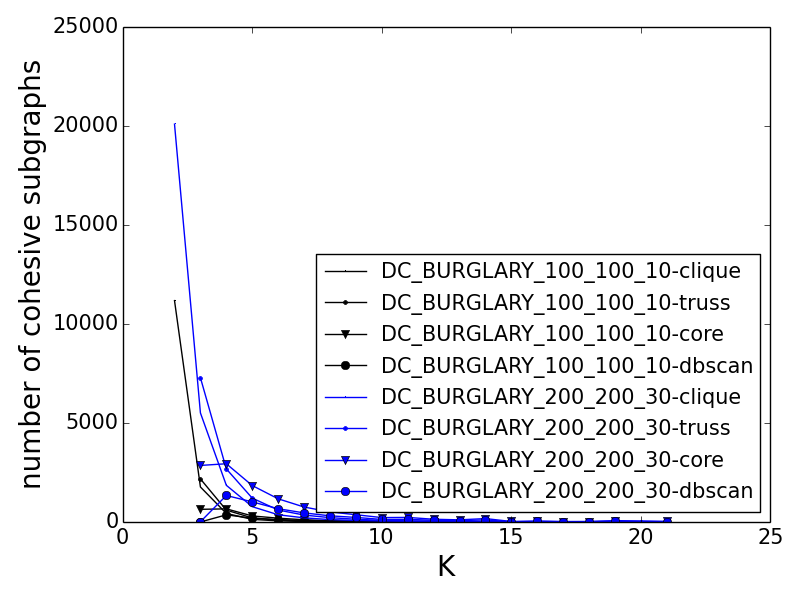
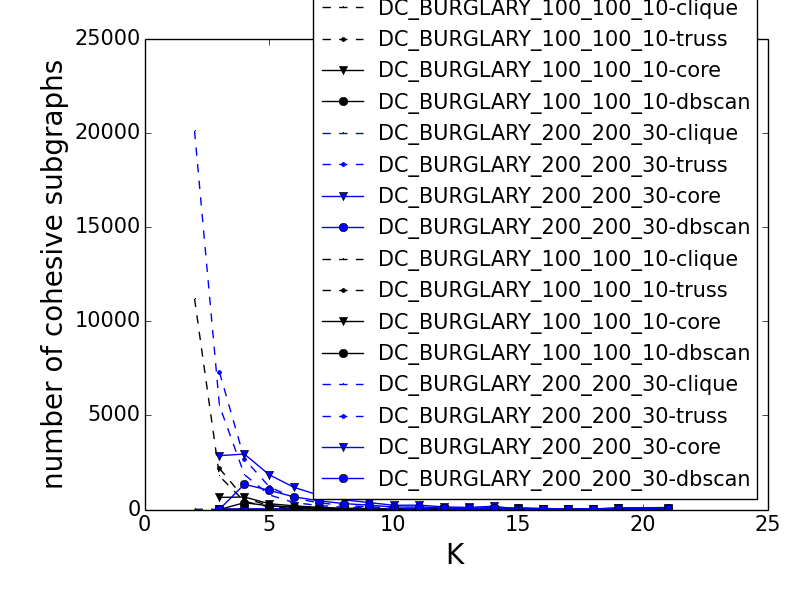
new figures

Changed region(s): [[0.0312, 0.0, 1.0, 0.96], [0.2188, 0.21, 0.25, 0.33]]

diff --git a/scripts/data_analysis.py b/scripts/data_analysis.py
@@ -62,6 +62,11 @@ class JsonStats:
         self.coreSize    = self.reduce(data["content"]["graph property"]["dbscan"], False)
         self.dbscanSize  = self.reduce(data["content"]["graph property"]["core"],   False)
 
+        self.cliqueSize  = self.getSizeMean(self.clique, self.cliqueSize)
+        self.trussSize   = self.getSizeMean(self.truss,  self.trussSize)
+        self.coreSize    = self.getSizeMean(self.core,   self.coreSize)
+        self.dbscanSize  = self.getSizeMean(self.dbscan, self.dbscanSize)
+
 
     def reduce(self, stats_str, if_freq):
         stats_item = {} 
@@ -90,8 +95,13 @@ class JsonStats:
 
         return {'x':X,'y':Y} 
 
+    def getSizeMean(self, freq, size):
+        for i in range(0, len(freq['y'])):
+            size['y'][i] = float(size['y'][i]) / float(freq['y'][i])
+        return size
+
+
     def plot(self, ofname):
-        print self.dbscan
         plt.plot(self.clique['x'], self.clique['y'], color='k', linestyle='-', marker=',', label = 'k-clique')
         plt.plot(self.truss['x'],  self.truss['y'],  color='k', linestyle='-', marker='.', label = 'k-truss')
         plt.plot(self.dbscan['x'], self.clique['y'], color='k', linestyle='-', marker='v', label = 'dbscan')
@@ -122,14 +132,20 @@ class JsonStatsCollections:
             except:
                 print "Data Corruption in " + file
 
-    def plot(self, ofname):
+    def plot(self, ofname, is_freq):
         colors = ['k', 'b', 'r', 'g']
         i = 0
         for c in self.coll: 
-            plt.plot(self.coll[c].clique['x'], self.coll[c].clique['y'], color=colors[i], linestyle='-', marker=',', label = self.coll[c].name+'-clique')
-            plt.plot(self.coll[c].truss['x'],  self.coll[c].truss['y'],  color=colors[i], linestyle='-', marker='.', label = self.coll[c].name+'-truss')
-            plt.plot(self.coll[c].core['x'],   self.coll[c].core['y'],   color=colors[i], linestyle='-', marker='v', label = self.coll[c].name+'-core')
-            plt.plot(self.coll[c].dbscan['x'], self.coll[c].dbscan['y'], color=colors[i], linestyle='-', marker='o', label = self.coll[c].name+'-dbscan')
+            if is_freq:
+                plt.plot(self.coll[c].cliqueSize['x'], self.coll[c].cliqueSize['y'], color=colors[i], linestyle='--', marker=',', label = self.coll[c].name+'-clique')
+                plt.plot(self.coll[c].trussSize['x'],  self.coll[c].trussSize['y'],  color=colors[i], linestyle='--', marker='.', label = self.coll[c].name+'-truss')
+                plt.plot(self.coll[c].coreSize['x'],   self.coll[c].coreSize['y'],   color=colors[i], linestyle='-',  marker='v', label = self.coll[c].name+'-core')
+                plt.plot(self.coll[c].dbscanSize['x'], self.coll[c].dbscanSize['y'], color=colors[i], linestyle='-',  marker='o', label = self.coll[c].name+'-dbscan')
+            else:
+                plt.plot(self.coll[c].clique['x'], self.coll[c].clique['y'], color=colors[i], linestyle='--', marker=',', label = self.coll[c].name+'-clique')
+                plt.plot(self.coll[c].truss['x'],  self.coll[c].truss['y'],  color=colors[i], linestyle='--', marker='.', label = self.coll[c].name+'-truss')
+                plt.plot(self.coll[c].core['x'],   self.coll[c].core['y'],   color=colors[i], linestyle='-',  marker='v', label = self.coll[c].name+'-core')
+                plt.plot(self.coll[c].dbscan['x'], self.coll[c].dbscan['y'], color=colors[i], linestyle='-',  marker='o', label = self.coll[c].name+'-dbscan')
             i += 1
         plt.legend( loc='lower right', numpoints = 1, prop={'size':15} )
         plt.tick_params(labelsize=15)
@@ -172,8 +188,10 @@ def main(argv):
             if line.find("prefix") != -1:
                 pfx = line.strip().split(" ")[1]
         coll = JsonStatsCollections(dir, pfx)
-        oname = dir + pfx + '.png'
-        coll.plot(oname)
+        oname1 = dir + pfx + '.png'
+        oname2 = dir + pfx + '_size.png'
+        coll.plot(oname2, True)
+        coll.plot(oname1, False)
 
 if __name__ == "__main__":
     main(sys.argv)
